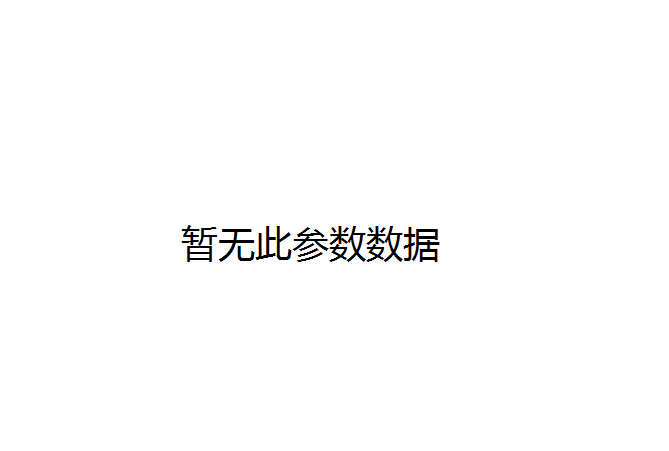
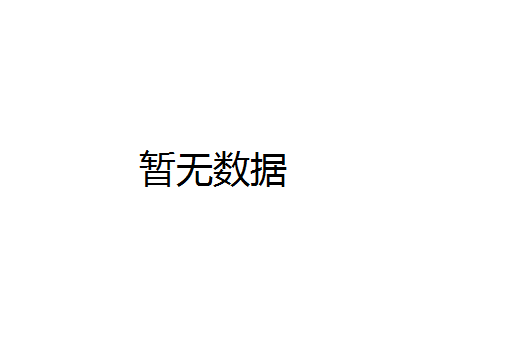
shenwp

Changed region(s): [[0.25, 0.4006, 0.6562, 0.5854]]

diff --git a/src/main/java/DataAn/reportManager/controller/ReportController.java b/src/main/java/DataAn/reportManager/controller/ReportController.java
@@ -1,5 +1,6 @@
 package DataAn.reportManager.controller;
 
+import java.io.File;
 import java.io.IOException;
 import java.util.Date;
 import java.util.HashMap;
@@ -167,7 +168,7 @@ public class ReportController {
 		return jsonMsg;
 	}
 	@RequestMapping(value = { "/downloadReport" })
-	public void  downloadReport(HttpServletResponse response,HttpServletRequest request,String docPath,String filename) throws Exception {
+	public void downloadReport(HttpServletResponse response,HttpServletRequest request,String docPath,String filename) throws Exception {
 		
 		try {	
 			reoportService.downloadReport(response, docPath,filename);
@@ -198,7 +199,11 @@ public class ReportController {
 			partsName = "陀螺";
 		}
 		String filename = seriesId+"_"+starId+"_"+partsName+"_"+time+".doc";
-		String docPath = OptionConfig.getWebPath() + "report\\"+filename;
+		String docPath = OptionConfig.getWebPath() + File.separator + 
+				"report" + File.separator + 
+				DateUtil.format(new Date(), "yyyy-MM-dd")+ File.separator + 
+				UUIDGeneratorUtil.getUUID()+filename;
+		
 		Date beginDate = DateUtil.format(beginTime,"yyyy-MM-dd");
 		Date endDate =  DateUtil.format(endTime,"yyyy-MM-dd");
 		try {

diff --git a/src/main/java/DataAn/reportManager/service/impl/ReportServiceImpl.java b/src/main/java/DataAn/reportManager/service/impl/ReportServiceImpl.java
@@ -683,7 +683,7 @@ public class ReportServiceImpl implements IReoportService {
 
 		// 封装参数类型 图片list
 		List<ParamImgDataDto> threeParamImgList = new ArrayList<ParamImgDataDto>();
-		String chartPathThree = OptionConfig.getWebPath() + "\\report\\wordtemplate\\satellite.jpg";
+		String chartPathThree = OptionConfig.getWebPath() + "\\report\\wordtemplate\\NoData.png";
 		for (String parName : parameterType) {
 			ParamImgDataDto paramImgData = new ParamImgDataDto();
 			paramImgData.setParName(parName);

diff --git a/src/test/java/DataAn/reportManager/OptionConfigTest.java b/src/test/java/DataAn/reportManager/OptionConfigTest.java
@@ -1,0 +1,13 @@
+package DataAn.reportManager;
+
+import org.junit.Test;
+
+import DataAn.wordManager.config.OptionConfig;
+
+public class OptionConfigTest {
+
+	@Test
+	public void test(){
+		System.out.println(OptionConfig.getWebPath());
+	}
+}
